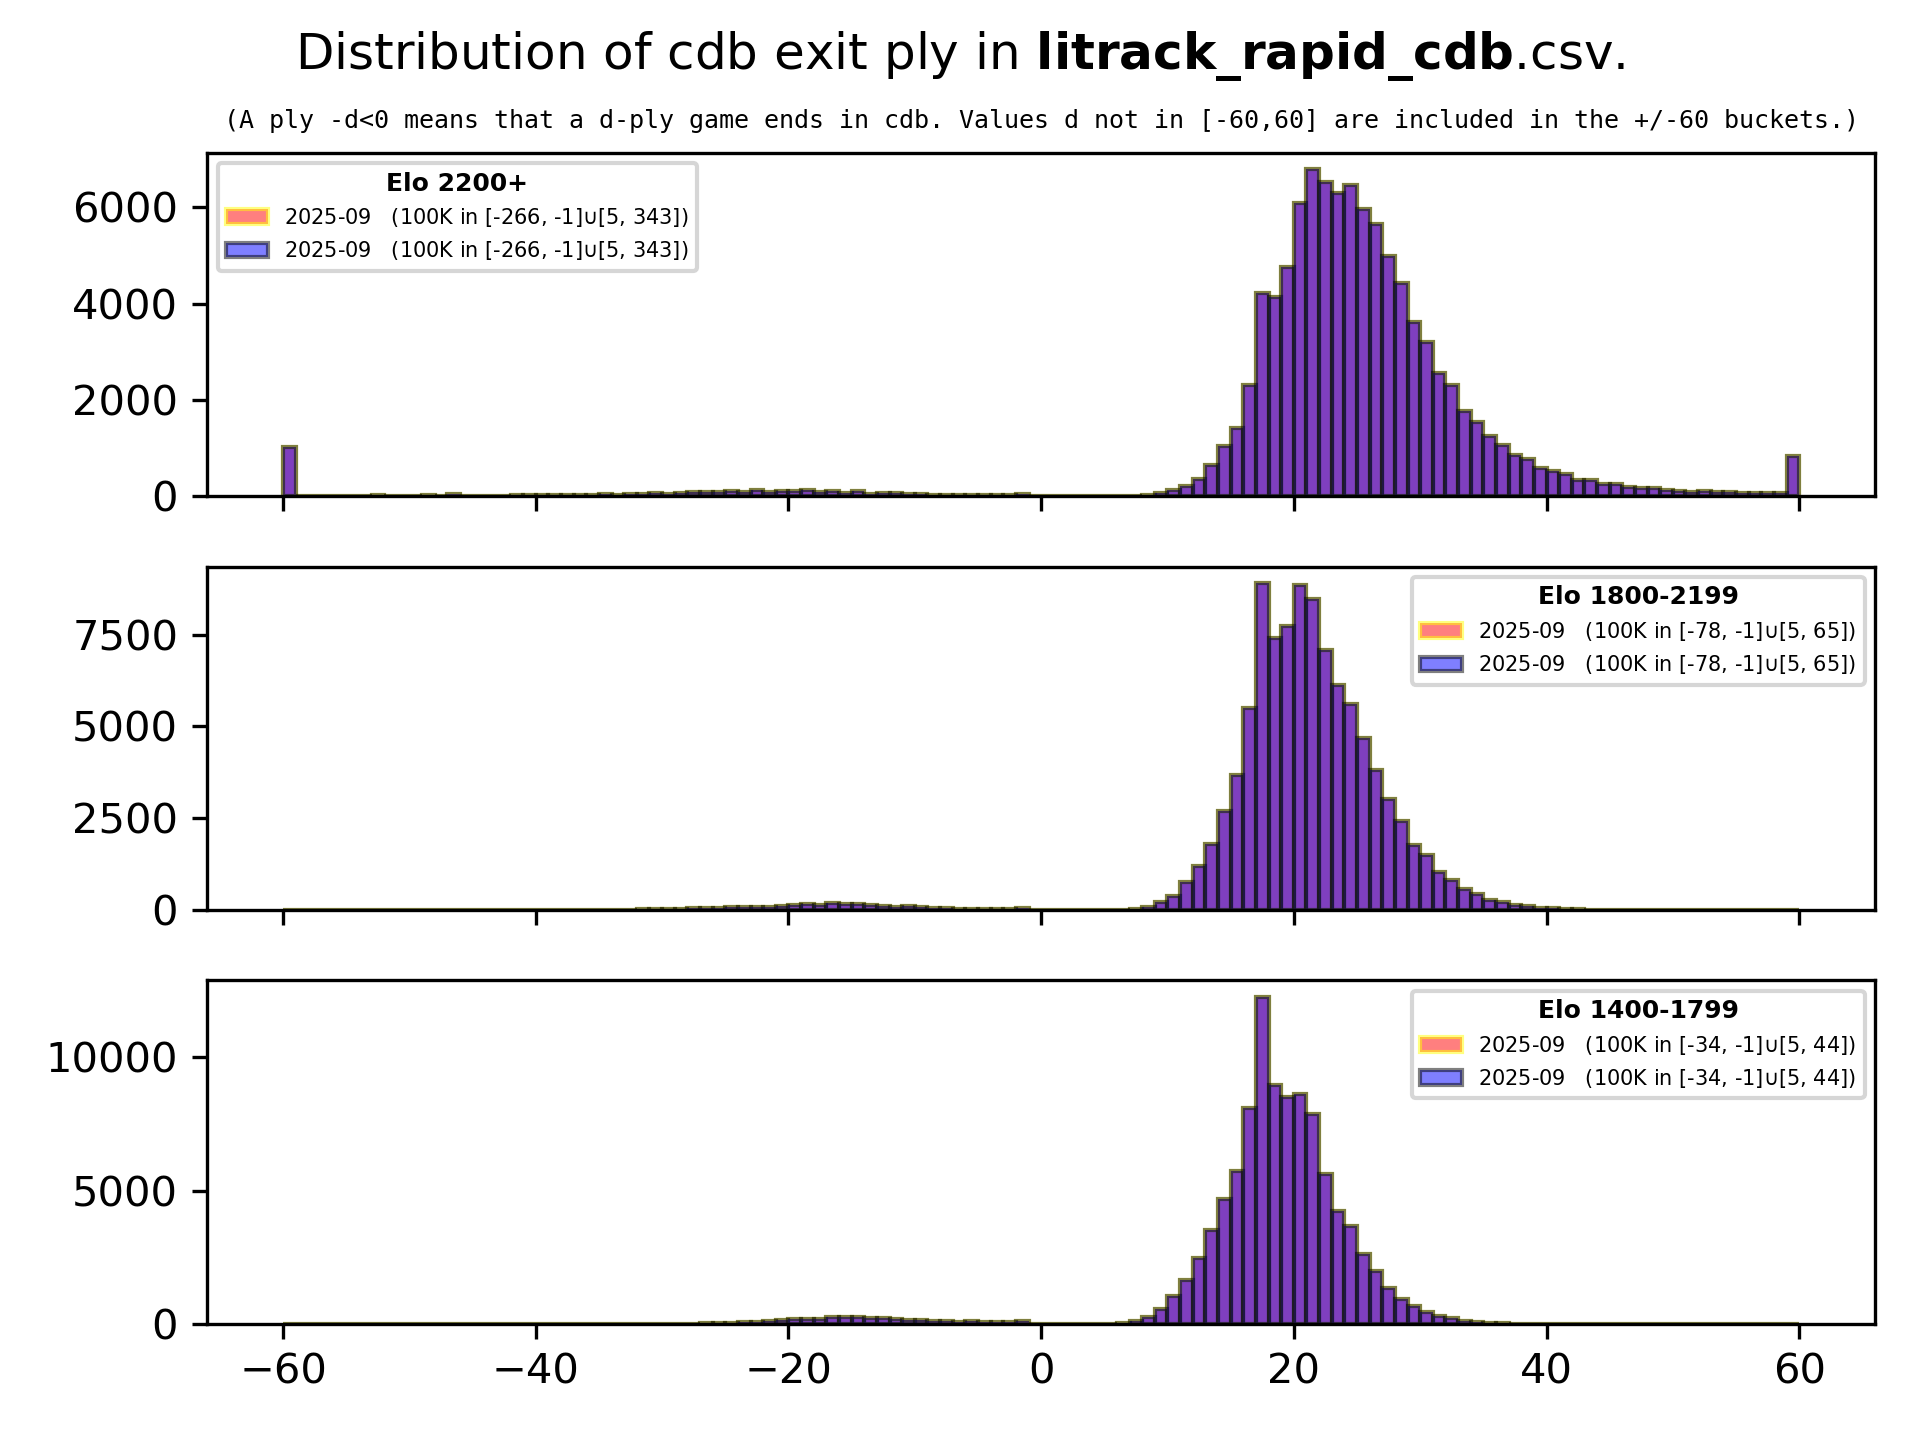
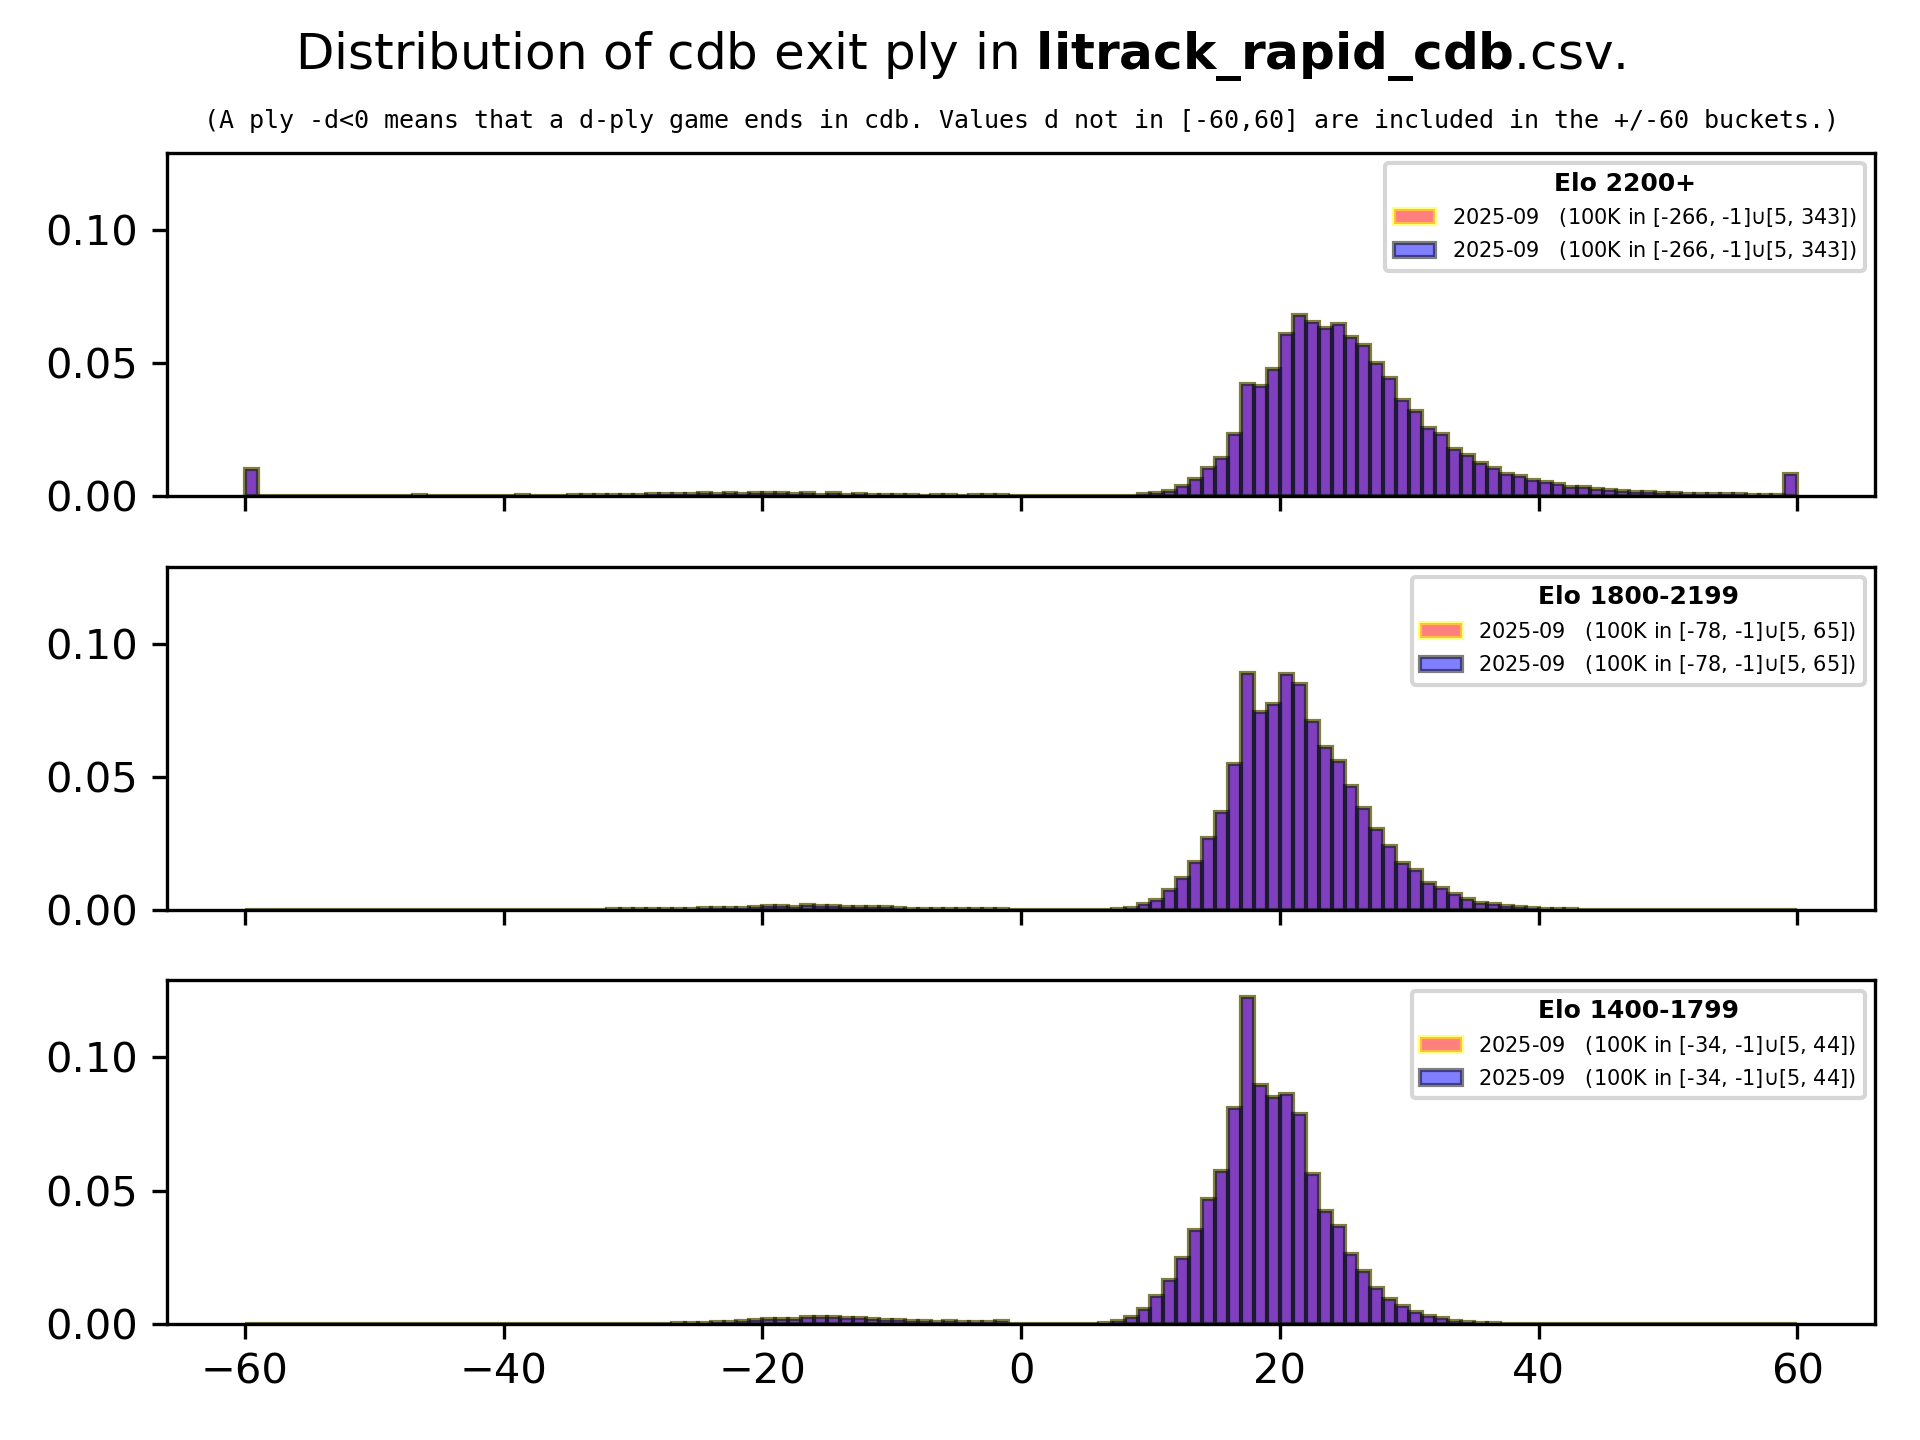
align axes

diff --git a/plotdata.py b/plotdata.py
@@ -62,10 +62,10 @@ class litrackdata:
                         dictStr = fields[2 + elo].replace(";", ",")
                         self.depths[elo].append(ast.literal_eval(dictStr))
 
-    def create_distribution_graph(self, cutOff, logplot, negplot, density):
+    def create_distribution_graph(self, cutOff, logplot, negplot, density, yrange):
         color, edgecolor = ["red", "blue"], ["yellow", "black"]
         label = [[None, None] for _ in range(self.elo_buckets)]
-        fig, ax = plt.subplots(self.elo_buckets, 1, sharex=True)
+        fig, ax = plt.subplots(self.elo_buckets, 1, sharex=True, sharey=True)
         perBin = 1
         dictList = [[None, None] for _ in range(self.elo_buckets)]
         # first find common range for all elo buckets
@@ -147,10 +147,14 @@ class litrackdata:
         if titleStr:
             ax[0].set_title(f"({titleStr.strip()})", fontsize=6, family="monospace")
         fig.tight_layout(rect=[0, 0, 1, 1.03])
+        if yrange is not None:
+            ax[0].set_ylim(yrange)
+        ymin, ymax = ax[0].get_ylim()
+        print(f"Distro shared y-range: {ymin} {ymax}")
 
         plt.savefig(self.prefix + ".png", dpi=300)
 
-    def create_timeseries_graph(self, plotStart=0):
+    def create_timeseries_graph(self, yrange, plotStart=0):
         dateData = [datetime.fromisoformat(d + "-01") for d in self.date[plotStart:]]
         depthsData = [[] for _ in range(self.elo_buckets)]
         minNoP = [10**10] * self.elo_buckets
@@ -223,6 +227,11 @@ class litrackdata:
             family="monospace",
         )
         fig.tight_layout(rect=[0, 0, 1, 1.03])
+        if yrange is not None:
+            ax.set_ylim(yrange)
+        ymin, ymax = ax.get_ylim()
+        print(f"Time y-range: {ymin} {ymax}")
+
         plt.savefig(
             self.prefix + "time" + bool(plotStart) * str(plotStart) + ".png", dpi=300
         )
@@ -345,6 +354,20 @@ if __name__ == "__main__":
         default=0,
     )
     parser.add_argument(
+        "--distroYrange",
+        nargs=2,
+        type=float,
+        default=None,
+        help="Set a fixed y-range for the histograms.",
+    )
+    parser.add_argument(
+        "--timeYrange",
+        nargs=2,
+        type=float,
+        default=None,
+        help="Set a fixed y-range for the time evolution graphs.",
+    )
+    parser.add_argument(
         "--onlyTime",
         action="store_true",
         help="Create only time evolution graphs.",
@@ -359,8 +382,8 @@ if __name__ == "__main__":
     data = litrackdata(prefix)
     if not args.onlyTime:
         data.create_distribution_graph(
-            args.cutOff, args.logplot, args.negplot, args.density
+            args.cutOff, args.logplot, args.negplot, args.density, args.distroYrange
         )
-    data.create_timeseries_graph()
+    data.create_timeseries_graph(args.timeYrange)
     if args.AvgMinMaxPlot:
         data.create_avgminmax_graph(args.AvgMinMaxPlot)
